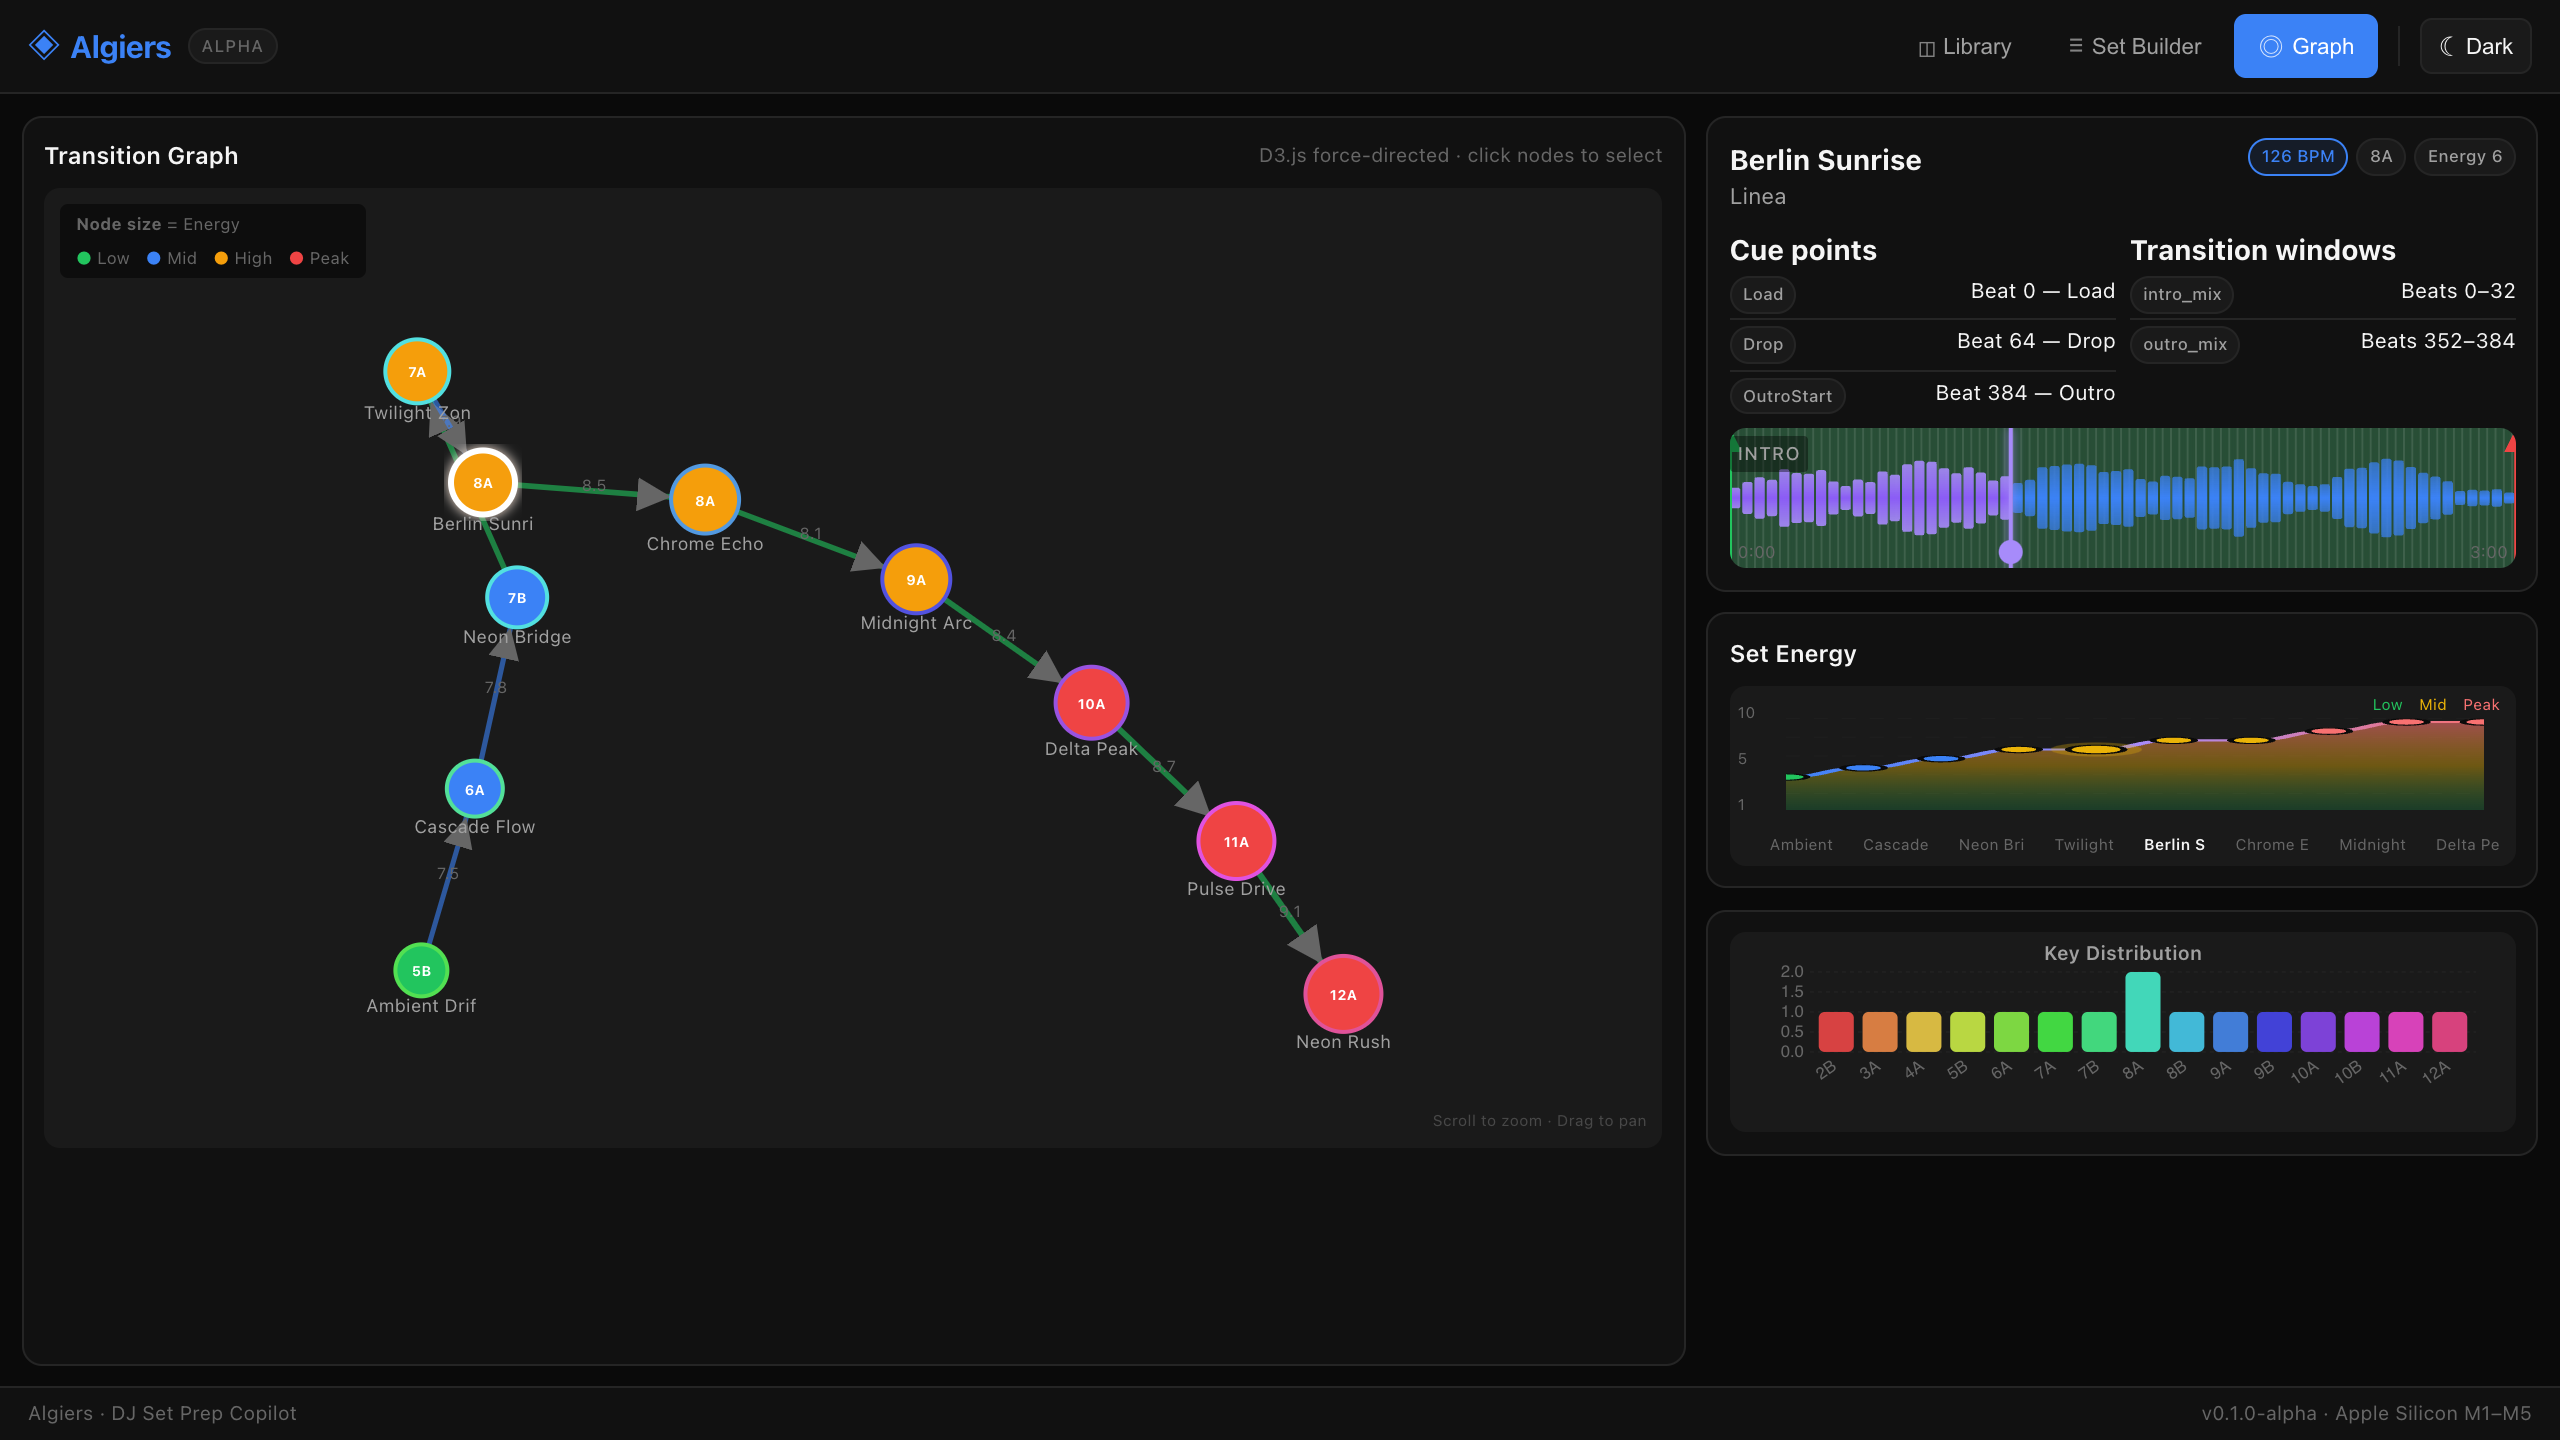
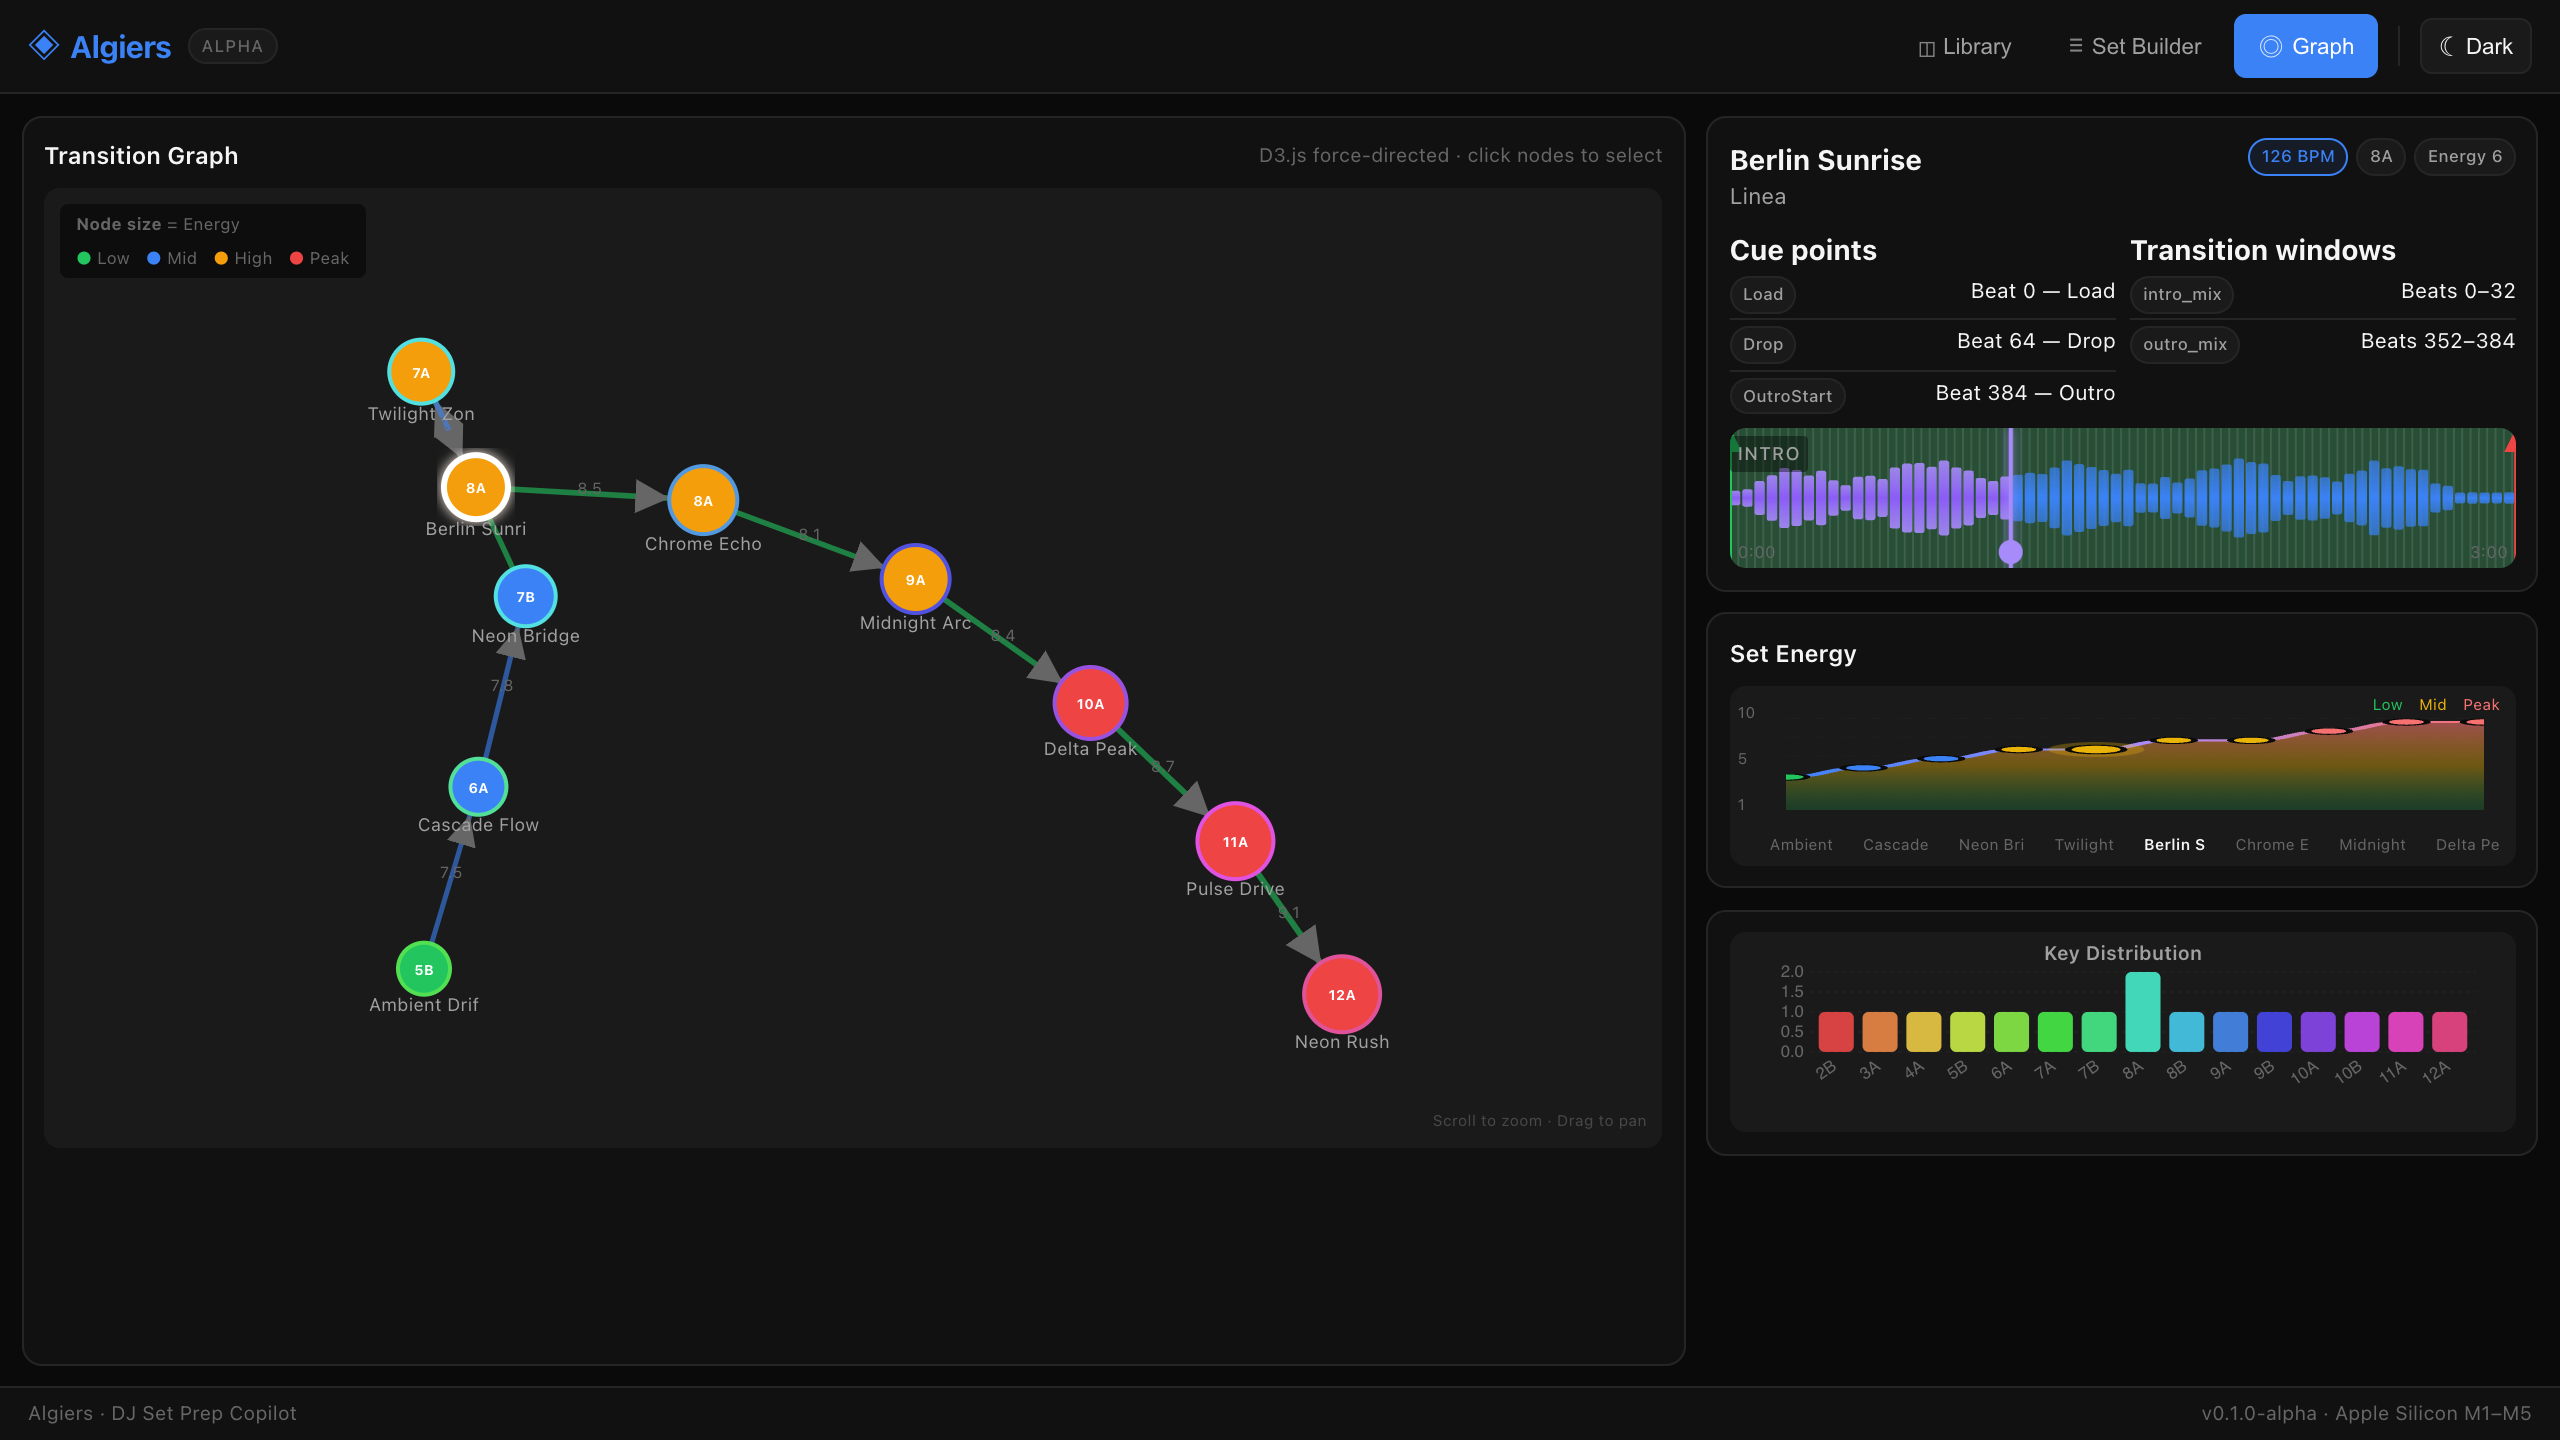
Regenerate demo WebP with longer duration and slowdown
- Updated screenshots tool to support direct WebP output
- Added slowdown and duration flags (default: 1.25x slower, 8s recording)
- Video now ~26 seconds (vs original ~5s)
- Refreshed all screenshots

diff --git a/cmd/screenshots/main.go b/cmd/screenshots/main.go
@@ -13,7 +13,10 @@
 //	-width      Viewport width (default: 1280)
 //	-height     Viewport height (default: 720)
 //	-scale      Device scale factor for retina (default: 2)
-//	-gif        Capture animated GIF hero (default: true)
+//	-gif        Capture animated GIF hero (default: false)
+//	-webp       Capture animated WebP hero (default: true)
+//	-slowdown   Slowdown factor (e.g., 1.25 for 25% slower) (default: 1.25)
+//	-duration   Recording duration in seconds (default: 8)
 package main
 
 import (
@@ -29,13 +32,16 @@ import (
 )
 
 type Config struct {
-	URL      string
-	OutDir   string
-	Headless bool
-	Width    int
-	Height   int
-	Scale    float64
-	CaptureGIF bool
+	URL         string
+	OutDir      string
+	Headless    bool
+	Width       int
+	Height      int
+	Scale       float64
+	CaptureGIF  bool
+	CaptureWebP bool
+	Slowdown    float64
+	Duration    int
 }
 
 func main() {
@@ -46,7 +52,10 @@ func main() {
 	flag.IntVar(&cfg.Width, "width", 1280, "Viewport width")
 	flag.IntVar(&cfg.Height, "height", 720, "Viewport height")
 	flag.Float64Var(&cfg.Scale, "scale", 2, "Device scale factor (2 for retina)")
-	flag.BoolVar(&cfg.CaptureGIF, "gif", true, "Capture animated GIF hero")
+	flag.BoolVar(&cfg.CaptureGIF, "gif", false, "Capture animated GIF hero")
+	flag.BoolVar(&cfg.CaptureWebP, "webp", true, "Capture animated WebP hero")
+	flag.Float64Var(&cfg.Slowdown, "slowdown", 1.25, "Slowdown factor (e.g., 1.25 for 25% slower)")
+	flag.IntVar(&cfg.Duration, "duration", 8, "Recording duration in seconds")
 	flag.Parse()
 
 	if err := run(cfg); err != nil {
@@ -83,9 +92,10 @@ func run(cfg Config) error {
 	}
 	defer browser.Close()
 
-	// Create context with viewport and video recording for GIF
+	// Create context with viewport and video recording for GIF/WebP
 	videoDir := filepath.Join(cfg.OutDir, "video")
-	if cfg.CaptureGIF {
+	captureVideo := cfg.CaptureGIF || cfg.CaptureWebP
+	if captureVideo {
 		os.MkdirAll(videoDir, 0755)
 	}
 
@@ -98,7 +108,7 @@ func run(cfg Config) error {
 		ColorScheme:       playwright.ColorSchemeDark,
 	}
 
-	if cfg.CaptureGIF {
+	if captureVideo {
 		contextOpts.RecordVideo = &playwright.RecordVideo{
 			Dir: videoDir,
 			Size: &playwright.Size{
@@ -213,9 +223,9 @@ func run(cfg Config) error {
 		log.Printf("  Saved: %s", outPath)
 	}
 
-	// Capture GIF animation
-	if cfg.CaptureGIF {
-		log.Println("Capturing GIF animation...")
+	// Capture video animation (GIF or WebP)
+	if captureVideo {
+		log.Println("Capturing video animation...")
 
 		// Go back to dark mode library view
 		if err := page.Click(".theme-toggle"); err != nil {
@@ -235,8 +245,9 @@ func run(cfg Config) error {
 			log.Printf("Play click: %v", err)
 		}
 
-		// Let it record for a few seconds
-		time.Sleep(4 * time.Second)
+		// Let it record for the configured duration
+		log.Printf("Recording for %d seconds...", cfg.Duration)
+		time.Sleep(time.Duration(cfg.Duration) * time.Second)
 
 		// Stop recording by closing the page
 		page.Close()
@@ -248,13 +259,26 @@ func run(cfg Config) error {
 			if err == nil {
 				log.Printf("Video recorded: %s", videoPath)
 
-				// Convert to GIF using ffmpeg
-				gifPath := filepath.Join(cfg.OutDir, "algiers-demo.gif")
-				if err := convertToGIF(videoPath, gifPath, cfg.Width/2); err != nil {
-					log.Printf("Warning: GIF conversion failed: %v", err)
-					log.Println("To convert manually: ffmpeg -i video.webm -vf \"fps=12,scale=640:-1:flags=lanczos\" -loop 0 demo.gif")
-				} else {
-					log.Printf("GIF saved: %s", gifPath)
+				// Convert to WebP if requested
+				if cfg.CaptureWebP {
+					webpPath := filepath.Join(cfg.OutDir, "algiers-demo.webp")
+					if err := convertToWebP(videoPath, webpPath, cfg.Width/2, cfg.Slowdown); err != nil {
+						log.Printf("Warning: WebP conversion failed: %v", err)
+						log.Println("To convert manually: ffmpeg -i video.webm -vf \"setpts=1.25*PTS,fps=12,scale=640:-1\" -c:v libwebp -loop 0 demo.webp")
+					} else {
+						log.Printf("WebP saved: %s", webpPath)
+					}
+				}
+
+				// Convert to GIF if requested
+				if cfg.CaptureGIF {
+					gifPath := filepath.Join(cfg.OutDir, "algiers-demo.gif")
+					if err := convertToGIF(videoPath, gifPath, cfg.Width/2, cfg.Slowdown); err != nil {
+						log.Printf("Warning: GIF conversion failed: %v", err)
+						log.Println("To convert manually: ffmpeg -i video.webm -vf \"setpts=1.25*PTS,fps=12,scale=640:-1:flags=lanczos\" -loop 0 demo.gif")
+					} else {
+						log.Printf("GIF saved: %s", gifPath)
+					}
 				}
 			}
 		}
@@ -264,13 +288,47 @@ func run(cfg Config) error {
 	return nil
 }
 
-func convertToGIF(videoPath, gifPath string, width int) error {
+func convertToWebP(videoPath, webpPath string, width int, slowdown float64) error {
+	// Two-step conversion: video -> temp GIF -> WebP
+	// This works even without ffmpeg libwebp support
+
+	// Step 1: Convert video to temporary GIF
+	tempGIF := webpPath + ".tmp.gif"
+	defer os.Remove(tempGIF)
+
+	vf := fmt.Sprintf("setpts=%.2f*PTS,fps=12,scale=%d:-1:flags=lanczos,split[s0][s1];[s0]palettegen[p];[s1][p]paletteuse", slowdown, width)
+	cmd := exec.Command("ffmpeg",
+		"-y",
+		"-i", videoPath,
+		"-vf", vf,
+		"-loop", "0",
+		tempGIF,
+	)
+	cmd.Stdout = os.Stdout
+	cmd.Stderr = os.Stderr
+	if err := cmd.Run(); err != nil {
+		return fmt.Errorf("ffmpeg to GIF: %w", err)
+	}
+
+	// Step 2: Convert GIF to WebP using gif2webp
+	cmd = exec.Command("gif2webp", "-q", "80", tempGIF, "-o", webpPath)
+	cmd.Stdout = os.Stdout
+	cmd.Stderr = os.Stderr
+	if err := cmd.Run(); err != nil {
+		return fmt.Errorf("gif2webp: %w", err)
+	}
+
+	return nil
+}
+
+func convertToGIF(videoPath, gifPath string, width int, slowdown float64) error {
 	// Use ffmpeg to convert video to GIF
-	// -vf: video filters - fps, scale, palettegen/paletteuse for quality
+	// setpts: slow down the video, fps, scale, palettegen/paletteuse for quality
+	vf := fmt.Sprintf("setpts=%.2f*PTS,fps=12,scale=%d:-1:flags=lanczos,split[s0][s1];[s0]palettegen[p];[s1][p]paletteuse", slowdown, width)
 	cmd := exec.Command("ffmpeg",
 		"-y", // overwrite output
 		"-i", videoPath,
-		"-vf", fmt.Sprintf("fps=12,scale=%d:-1:flags=lanczos,split[s0][s1];[s0]palettegen[p];[s1][p]paletteuse", width),
+		"-vf", vf,
 		"-loop", "0",
 		gifPath,
 	)
